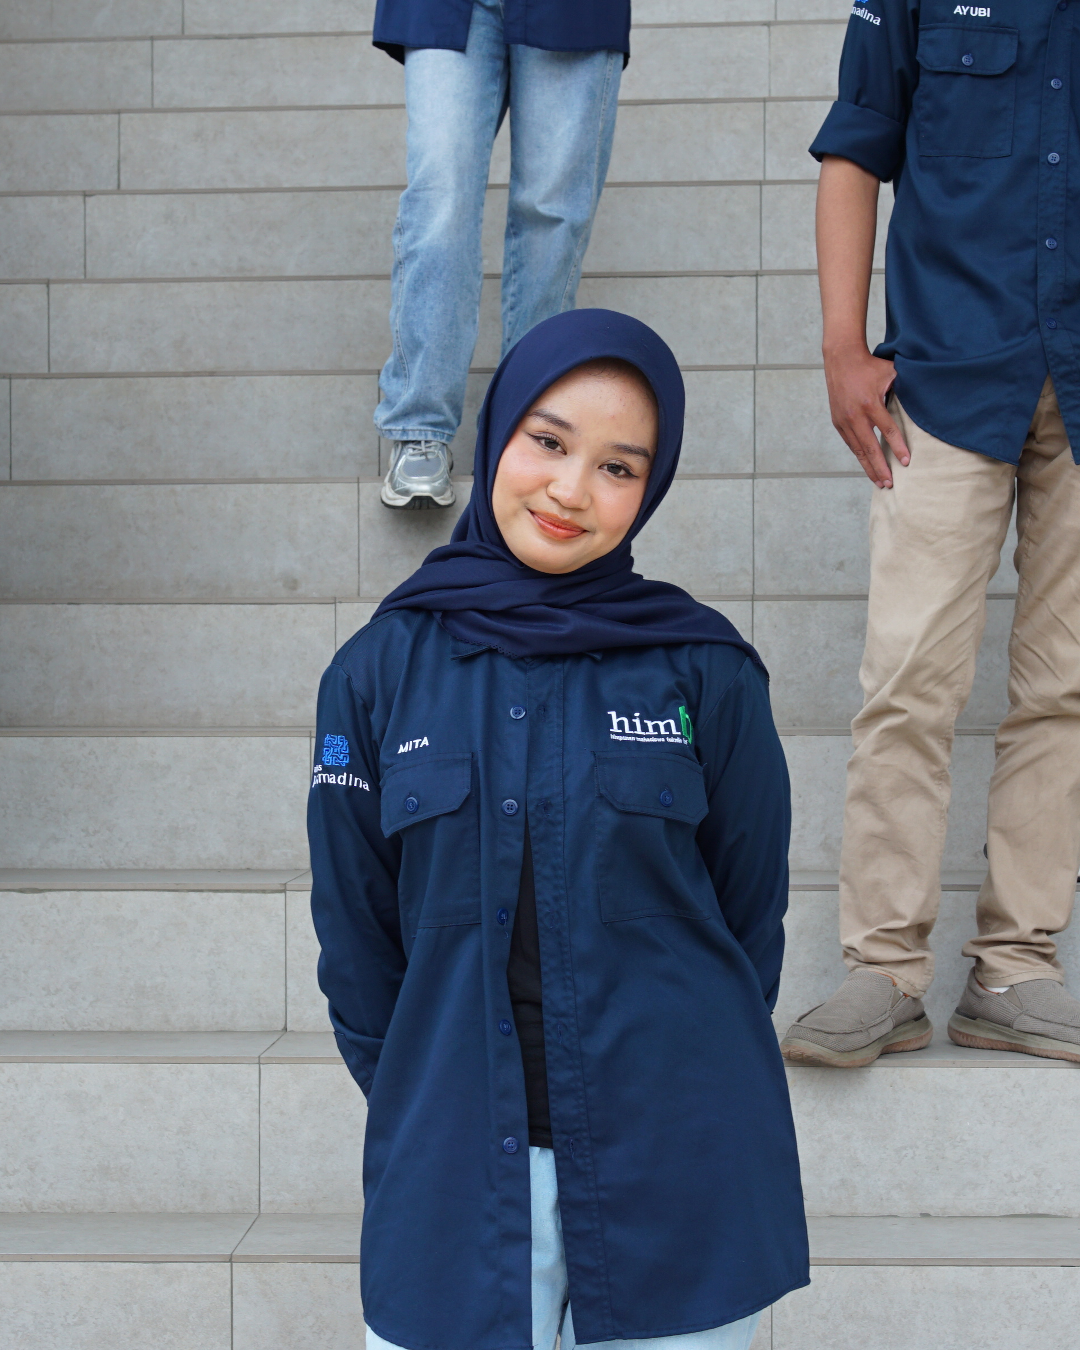
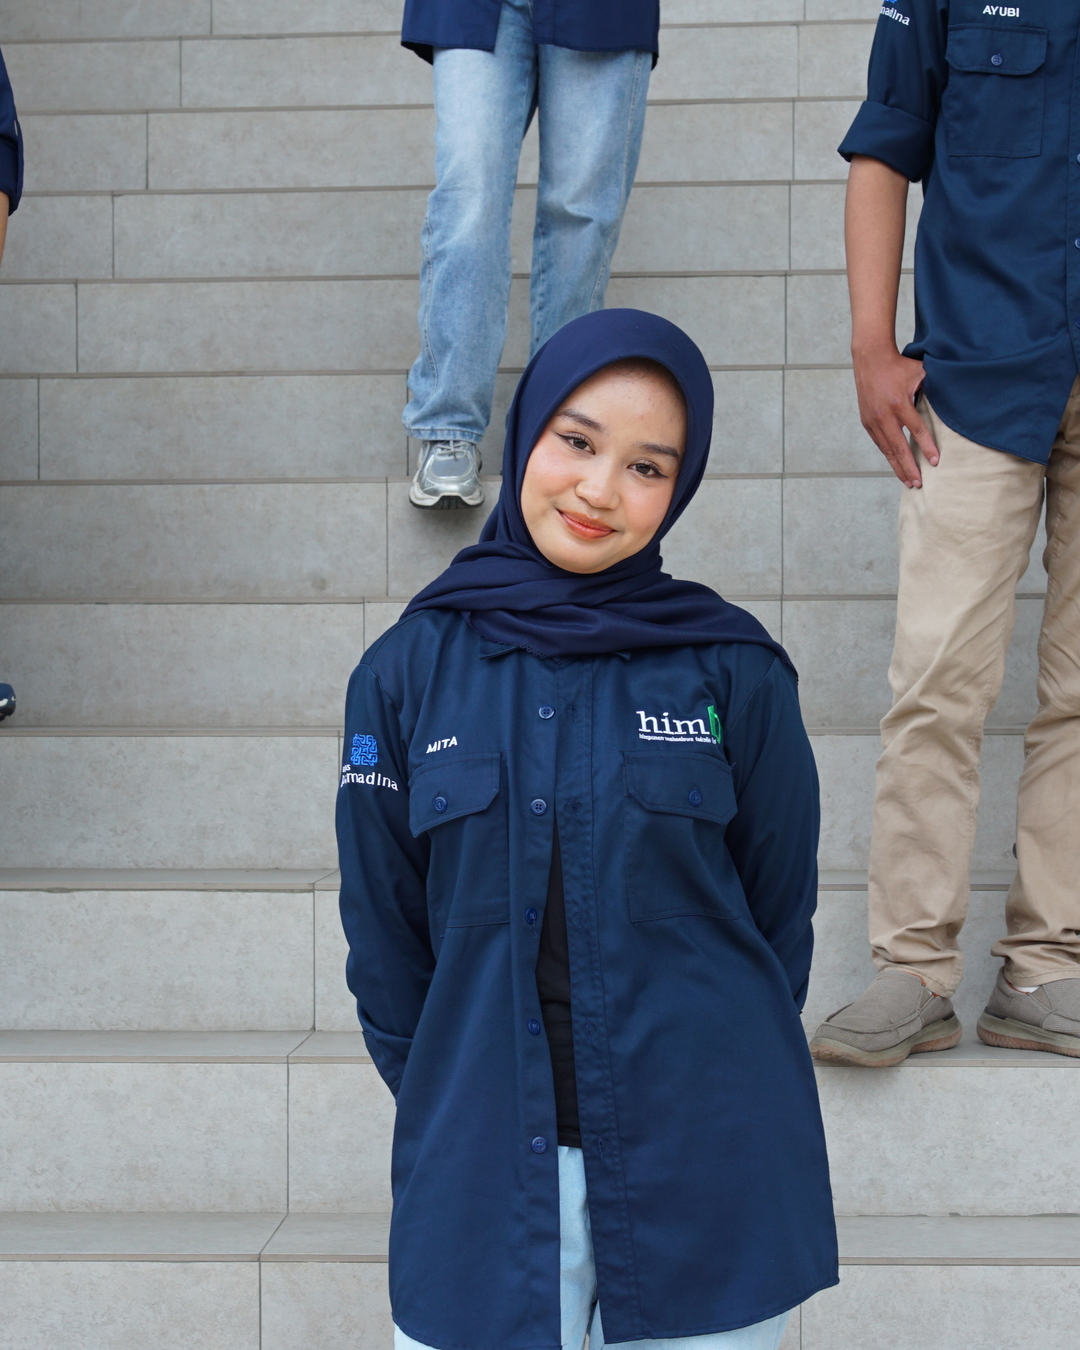
fix(division): eliminate image stretching and adapt grid layout for member counts

diff --git a/src/components/profile-card/index.jsx b/src/components/profile-card/index.jsx
@@ -2,23 +2,56 @@
 
 import Image from "next/image";
 
+function getLayoutConfig(count) {
+  switch (count) {
+    case 3:
+      return {
+        itemWidth: "w-[calc(50%-0.5rem)] sm:w-[calc(33.333%-1rem)] max-w-[280px]",
+        sizes: "(max-width: 640px) 45vw, (max-width: 1024px) 30vw, 280px",
+      };
+    case 4:
+      return {
+        itemWidth: "w-[calc(50%-0.5rem)] sm:w-[calc(25%-1.125rem)] max-w-[250px]",
+        sizes: "(max-width: 640px) 45vw, (max-width: 1024px) 25vw, 250px",
+      };
+    case 5:
+      return {
+        itemWidth: "w-[calc(50%-0.5rem)] sm:w-[calc(33.333%-1rem)] lg:w-[calc(20%-1.2rem)] max-w-[220px] lg:max-w-[200px]",
+        sizes: "(max-width: 640px) 45vw, (max-width: 1024px) 30vw, 200px",
+      };
+    case 6:
+      return {
+        itemWidth: "w-[calc(50%-0.5rem)] sm:w-[calc(33.333%-1rem)] max-w-[260px]",
+        sizes: "(max-width: 640px) 45vw, (max-width: 1024px) 30vw, 260px",
+      };
+    default:
+      return {
+        itemWidth: "w-[calc(50%-0.5rem)] sm:w-[calc(33.333%-1rem)] md:w-[calc(25%-1.125rem)] max-w-[250px]",
+        sizes: "(max-width: 640px) 45vw, (max-width: 1024px) 30vw, 250px",
+      };
+  }
+}
+
 export default function ProfileCard({ images, imagesTop = [], imagesBottom = [] }) {
   const rawImages = images && images.length > 0 ? images : [...imagesTop, ...imagesBottom];
-  const allImages = rawImages.map((src) => (src.includes("?") ? src : `${src}?v=2`));
+  // Append version query param to bust any cached thumbnails
+  const allImages = rawImages.map((src) => (src.includes("?") ? src : `${src}?v=3`));
+
+  const config = getLayoutConfig(allImages.length);
 
   return (
-    <div className="w-full">
-      <div className="grid grid-cols-2 sm:grid-cols-3 md:grid-cols-4 gap-4 sm:gap-6">
+    <div className="w-full flex justify-center">
+      <div className="flex flex-wrap justify-center gap-4 sm:gap-6 w-full">
         {allImages.map((src, i) => (
           <div
             key={i}
-            className="group relative aspect-[4/5] rounded-2xl overflow-hidden glass-surface border border-white/10 shadow-lg hover:border-green-500/30 hover:-translate-y-1.5 transition-all duration-300"
+            className={`group relative aspect-[4/5] rounded-2xl overflow-hidden glass-surface border border-white/10 shadow-lg hover:border-green-500/30 hover:-translate-y-1.5 transition-all duration-300 flex-shrink-0 ${config.itemWidth}`}
           >
             <Image
               src={src}
               alt={`Anggota Divisi ${i + 1}`}
               fill
-              sizes="(max-width: 640px) 50vw, (max-width: 1024px) 33vw, 25vw"
+              sizes={config.sizes}
               className="object-cover object-center group-hover:scale-105 transition-transform duration-500"
             />
             <div className="absolute inset-0 bg-gradient-to-t from-black/60 via-transparent to-transparent opacity-0 group-hover:opacity-100 transition-opacity duration-300 pointer-events-none" />

diff --git a/src/app/division/page.tsx b/src/app/division/page.tsx
@@ -177,7 +177,7 @@ export default function Division() {
               </div>
 
               {/* Anggota Card Grid */}
-              <div className="flex justify-center sm:justify-start">
+              <div className="w-full">
                 <ProfileCard images={dept.images} />
               </div>
             </motion.section>
